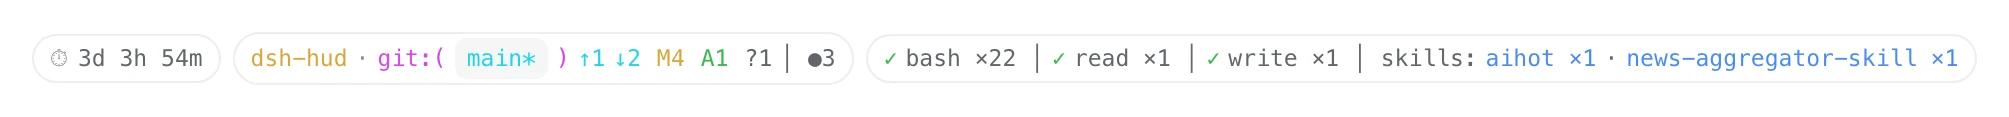
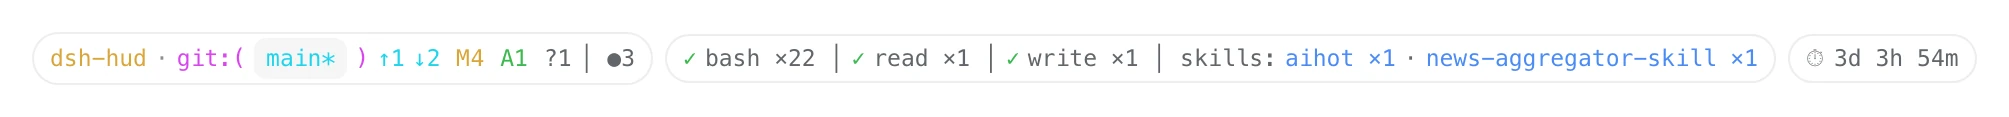
fix(计时胶囊): 挪到三枚里的最后（最右）
用户要的顺序：`Git │ 工具 │ 计时`。代码里把 `timerPillNode(...)` 从 dock 行的第一个节点
挪到最后一个（仍然在同一条注册里，所以还是同一行），注释与 README 的读序（Git → 工具 → 计时）
一起对齐。

同时重画 `docs/images/capsules.webp`（同一套办法：插件真实 CSS + 从旧截图采样的浅色主题取值 +
无头 Chrome 2×）—— 旧图里计时还在最左，现在它画的是最右。README 顶部图注、三节小标题
（"工具胶囊"改成"中间"、"会话计时胶囊"改成"最右边"）同步改准。

测试：dock 行内的先后断言改成 `['pill', 'session-timer']`（该用例里没有工具胶囊）。
286 例全绿。

Changed region(s): [[0.0, 0.4103, 0.9876, 0.6154]]

diff --git a/lib/client.js b/lib/client.js
@@ -3379,9 +3379,6 @@ window.__ModuleLoader__.load({
       // 外层容器复刻框架自己的 dock 行几何（见 queue 公告）：仅靠胶囊自身对齐，
       // 胶囊会飘到整栏的最左边，而输入卡片是居中的。
       return h("div", { className: "dshh-dock", "data-dsh-hud": "dock" },
-        // 计时胶囊排在最前 —— 像 codex-hud 把 ⏱ 放行首；它和下面两枚同在**一条注册**里，
-        // 所以是同一行（独立注册会另起一整行，dock 是竖列）。
-        timerPillNode(state, { t: t, sessionId: sessionId, now: props.now === undefined ? tick[0] : props.now }),
         h("button", {
           type: "button",
           className: "dshh-pill",
@@ -3394,7 +3391,9 @@ window.__ModuleLoader__.load({
           },
         }, children),
         // 工具活动那一枚并排在后面 —— dock 是竖列，独立注册会另起一整行（用户实测"换行了"）。
-        toolPillNode(state, { t: t, now: props.now === undefined ? tick[0] : props.now }));
+        toolPillNode(state, { t: t, now: props.now === undefined ? tick[0] : props.now }),
+        // 计时胶囊放在**最后**（三枚同在一条注册里 → 同一行；独立注册会另起一整行）。
+        timerPillNode(state, { t: t, sessionId: sessionId, now: props.now === undefined ? tick[0] : props.now }));
     }
 
     /**
@@ -3482,8 +3481,8 @@ window.__ModuleLoader__.load({
     }
 
     /**
-     * 会话计时胶囊（**与 Git 胶囊同一行**，所以它只是那一行里的第一个节点，不是独立注册 ——
-     * dock 是竖列，独立注册会另起一整行，工具胶囊当年就这么踩过一次）。
+     * 会话计时胶囊（**与 Git / 工具两枚同一行、排在最后**，所以它只是那一条注册里的第三个节点 ——
+     * dock 是竖列，独立注册会另起一整行，工具胶囊与计时胶囊都踩过这个坑）。
      *
      * 口径与 codex-hud 的会话时长一致：挂钟 = 现在 − 会话创建时刻；悬停补上模型/工具墙钟与轮次。
      * 数据来自 store 快照（`sessionTime`），所以这里是纯函数，没有 hooks。

diff --git a/README.md b/README.md
@@ -3,7 +3,7 @@
 > 一个只读的工作区 Git 面板：分支、ahead/behind、改动清单与差异，外加「这个会话改过哪些文件、审到哪了、跑了什么工具」。
 > A read-only workspace Git panel for DeepSeek Harness, with per-session change attribution.
 
-![输入框上方的三枚胶囊：最左边是本次会话运行时长，中间是 Git 状态，右边是工具与技能](docs/images/capsules.webp)
+![输入框上方的三枚胶囊：左边是 Git 状态，中间是工具与技能，最右边是本次会话运行时长](docs/images/capsules.webp)
 
 *左：工作区名 · `git:(分支*)` · ahead/behind · 改动计数 · 本会话改过几个文件。右：每个工具的调用次数、正在跑什么、以及会话调用过哪些技能 —— 图中 `aihot ×1` 是红的，因为那次调用失败了。*
 
@@ -19,7 +19,32 @@
 
 ## 你会看到什么
 
-### 会话计时胶囊（同一行的最左边，单独一枚）
+### 胶囊（输入框上方）
+
+```
+dsh-hud · git:(main*) ↑1 ↓2 M4 A1 ?1 │ ●3
+```
+
+- `dsh-hud` —— 工作区名（当前会话的目录名）。太长从中间省略，完整路径看悬停。
+- `git:(main*)` —— 分支。`*` 表示工作区不干净；detached 时是 `git:(detached abc1234)`。
+- `↑1 ↓2` —— 与上游的领先 / 落后（为 0 不显示）。
+- `M4 A1 ?1` —— 改动计数，只列非零项：`M` 修改 · `A` 新增 · `D` 删除 · `R` 重命名 · `C` 复制 · `T` 类型改变 · `?` 未跟踪 · `!` 冲突。
+- `●3` —— 本会话改过 3 个文件（没有就不显示）。
+
+点它开面板；悬停给出完整路径、上游与各类计数。**不在 git 仓库里也会显示**（只有工作区名 + `git:(非 git 仓库)`）。
+
+### 工具胶囊（同一行的中间，只在跑过工具后出现）
+
+```
+◐ bash: pnpm test 1.2s                                     ← 正在跑（秒数实时跳）
+✓ bash ×16 │ ✓ apply_patch ×6 │ skills: office-xlsx ×2 +2   ← 空闲
+```
+
+- 每个工具一个计数；前面的 `✓` / `✗` 是**它自己最近一次调用**的结果。
+- `skills:` 后面是会话调用过的**技能名**（不是"技能调了几次"—— 看得出是哪一个）。
+- 最多铺 3 个工具、2 个技能，其余收成 `+k`；悬停里有完整清单与最近几条的执行结果。
+
+### 会话计时胶囊（同一行的最右边，单独一枚）
 
 ```
 ⏱ 2h 14m
@@ -37,33 +62,8 @@
 - 数字一分钟取一次（宿主侧同样带 60 秒缓存），显示每 4 秒自跳一次 —— 跨分钟不用等下一次请求。
 - **刚重启的头几秒可能还没有它**：会话是异步恢复到宿主存储里的（实测启动 0.6 秒时存储里是空的、约 30 秒后才进去），所以取数失败时用 **3 秒**的节奏重问（拿到之后才换成 60 秒），而不是把"还没有"缓存一分钟。
 - 会话不在（还没恢复进宿主的会话存储、已归档、子会话已回收）或宿主没有 `sessions` 服务时，**整枚不渲染**，不留空壳。
-- 它与 Git / 工具两枚由**同一条 dock 注册**画出来 —— dock 是竖列，独立注册会另起一整行（工具胶囊当年踩过一次，这次计时又踩了一次：位置就是这么错的）。
+- 它与 Git / 工具两枚由**同一条 dock 注册**画出来、排在**最后** —— dock 是竖列，独立注册会另起一整行（工具胶囊当年踩过一次，计时胶囊又踩了一次：位置就是这么错的）。
 - 只读读数，指针不是"可点"；数字用等宽数字，跳动时宽度不抖。
-
-### 胶囊（输入框上方）
-
-```
-dsh-hud · git:(main*) ↑1 ↓2 M4 A1 ?1 │ ●3
-```
-
-- `dsh-hud` —— 工作区名（当前会话的目录名）。太长从中间省略，完整路径看悬停。
-- `git:(main*)` —— 分支。`*` 表示工作区不干净；detached 时是 `git:(detached abc1234)`。
-- `↑1 ↓2` —— 与上游的领先 / 落后（为 0 不显示）。
-- `M4 A1 ?1` —— 改动计数，只列非零项：`M` 修改 · `A` 新增 · `D` 删除 · `R` 重命名 · `C` 复制 · `T` 类型改变 · `?` 未跟踪 · `!` 冲突。
-- `●3` —— 本会话改过 3 个文件（没有就不显示）。
-
-点它开面板；悬停给出完整路径、上游与各类计数。**不在 git 仓库里也会显示**（只有工作区名 + `git:(非 git 仓库)`）。
-
-### 工具胶囊（同一行的右边，只在跑过工具后出现）
-
-```
-◐ bash: pnpm test 1.2s                                     ← 正在跑（秒数实时跳）
-✓ bash ×16 │ ✓ apply_patch ×6 │ skills: office-xlsx ×2 +2   ← 空闲
-```
-
-- 每个工具一个计数；前面的 `✓` / `✗` 是**它自己最近一次调用**的结果。
-- `skills:` 后面是会话调用过的**技能名**（不是"技能调了几次"—— 看得出是哪一个）。
-- 最多铺 3 个工具、2 个技能，其余收成 `+k`；悬停里有完整清单与最近几条的执行结果。
 
 ### 面板（点胶囊打开）
 
